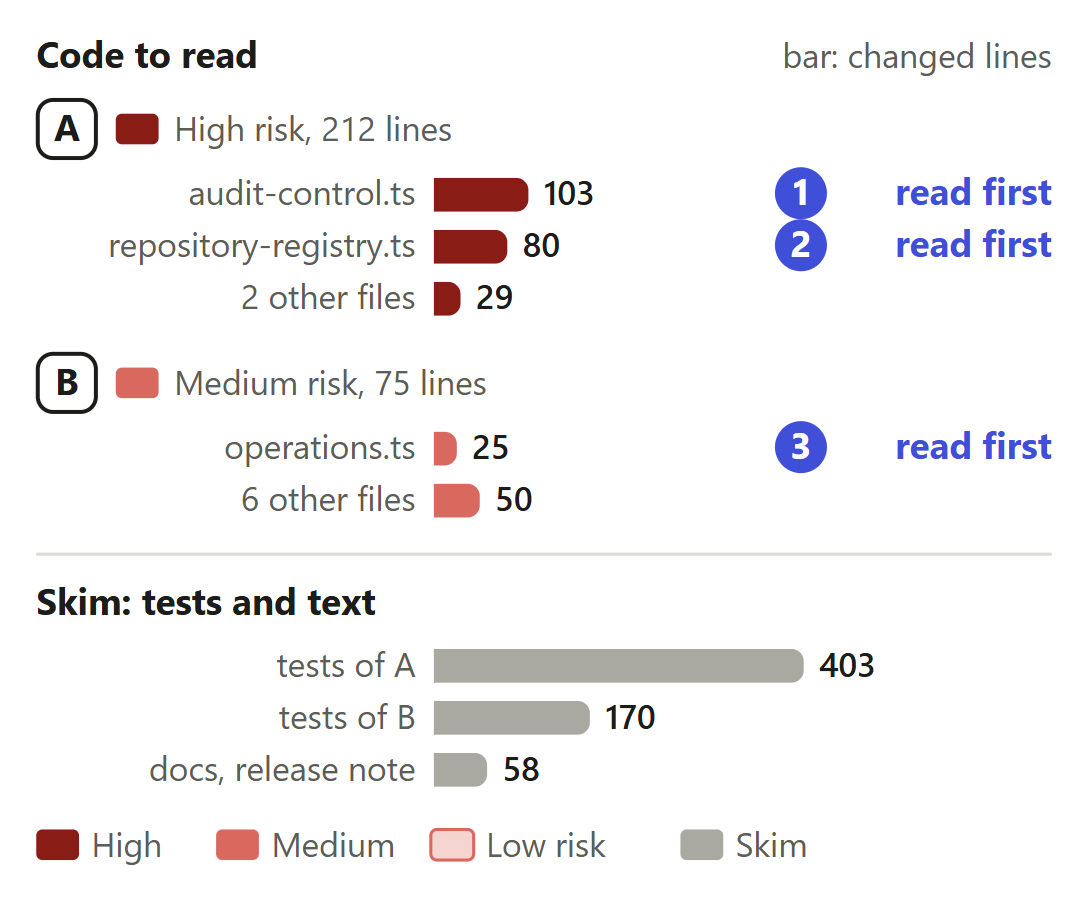
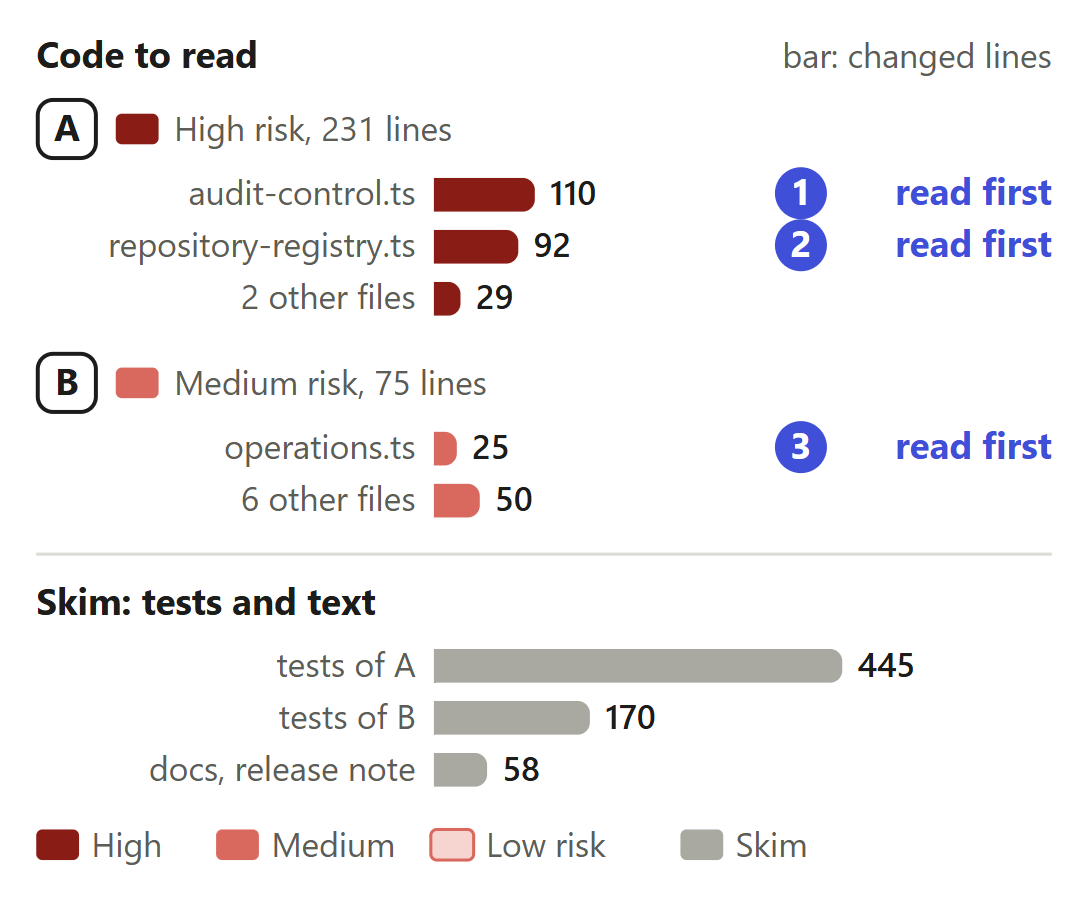
Decision report for #753 (JeanFrancoisGagne/settings-read-earlier-spelling)
settings-read-earlier-spelling/ holds what the pull request's callout links: README.md, the report in GitHub Markdown; report.html, the self-standing page; and 2 image(s).

Changed region(s): [[0.4375, 0.1865, 0.5625, 0.3108], [0.7188, 0.7148, 0.8438, 0.7769], [0.3125, 0.1243, 0.3438, 0.1554]]

diff --git a/settings-read-earlier-spelling/report.html b/settings-read-earlier-spelling/report.html
@@ -319,9 +319,9 @@ td .src { display: block; font-size: 13px; color: var(--muted); margin-top: 3px;
   </div>
   <p class="rec"><b>We recommend:</b> approve it: beside 0.1.4, Log mode and a stop come back in every folder measured, at main&#x27;s cost per hook event in each spelling the daemon resolves; one reading is a decision you can reverse.</p>
   <div class="big">
-    <div><b class="w">918 lines</b><span>in 20 files. 287 ship, 631 are tests and text.</span></div><div><b class="w">Careful review</b><span>It changes what the agent is told: a code owner.</span></div><div><b class="w">Waits on nothing</b><span>The approach was chosen on #666.</span></div><div><b class="w">3 not verified</b><span><a href="#gaps">Part 8</a> lists each.</span></div>
+    <div><b class="w">979 lines</b><span>in 20 files. 306 ship, 673 are tests and text.</span></div><div><b class="w">Careful review</b><span>It changes what the agent is told: a code owner.</span></div><div><b class="w">Waits on nothing</b><span>The approach was chosen on #666.</span></div><div><b class="w">3 not verified</b><span><a href="#gaps">Part 8</a> lists each.</span></div>
   </div>
-  <p class="state">Read from <a href="https://github.com/neralabs/rerail/pull/753">GitHub</a> on 18 November 2026, at head ca49f9699.</p>
+  <p class="state">Read from <a href="https://github.com/neralabs/rerail/pull/753">GitHub</a> on 18 November 2026, at head f9c9957e9.</p>
 </header>
 <section id="intent"><h2>2. Intent, and the gap</h2>
 <figure class="fg flat"><table class="tc it"><colgroup><col style="width:15%"><col style="width:25%"><col style="width:29%"><col style="width:31%"></colgroup><thead><tr><th>Change</th><th>Intended</th><th>Found</th><th>Now</th></tr></thead><tbody><tr><td class="k"><span class="lb">A</span><b>Settings kept on update</b></td><td class="in" data-l="Intended">Records saved under one spelling of a folder keep applying to the folder after an update. <span class="tagx">our reading</span></td><td class="fo" data-l="Found">After 0.1.4, main reads Steer where Log was saved, in 8 of 8 folders under another spelling. <span class="tagx">one reading</span></td><td class="now" data-l="Now"><b>Closes the gap</b> for Log mode and a stop, by reading the earlier key where the stored one has nothing.</td></tr><tr><td class="k"><span class="lb">B</span><b>Nothing more per event</b></td><td class="in" data-l="Intended">A fix for an earlier version&#x27;s records costs nothing more on each hook event. <span class="tagx">our reading</span></td><td class="fo" data-l="Found">The head before this paid 93 file calls per hook event in lower case, where main makes 57. <span class="tagx">one reading</span></td><td class="now" data-l="Now"><b>Closes the gap</b> by asking about the real path, as main does, and handing the spelling apart.</td></tr></tbody></table>
@@ -329,7 +329,7 @@ td .src { display: block; font-size: 13px; color: var(--muted); margin-top: 3px;
 <details class="ev"><summary>Sources at main, and causes</summary><div class="table-wrap"><table class="tc tight"><colgroup><col style="width:16%"><col style="width:42%"><col style="width:42%"></colgroup><thead><tr><th>Change</th><th>Where main states the intent</th><th>The cause, and what was measured</th></tr></thead><tbody><tr><td class="k">A. Settings kept on update</td><td data-l="Where main states the intent"><code>docs/windows.md</code>, Checkout keys: main keys each record through <code>checkoutRealpath</code>, the native realpath on Windows; 0.1.4 keyed audit settings and a folder outside Git through Node&#x27;s JS realpath (<code>audit-control.ts</code> line 82 and <code>checkout-control.ts</code> line 12 at the tag).</td><td data-l="The cause, and what was measured"><code>canonicalWorkspace</code> and <code>physicalPath</code> changed from the JS realpath, which keeps the caller&#x27;s letter case, drive letter and 8.3 name, to the native one, which gives the disk&#x27;s spelling. Nothing moved the rows 0.1.4 saved, and every read asks only the new key.</td></tr><tr><td class="k">B. Nothing more per event</td><td data-l="Where main states the intent">The issue&#x27;s chosen fix on #666: small, no storage change, nothing extra per event.</td><td data-l="The cause, and what was measured">The hook sent the folder as spelt in place of its real path, so the daemon resolved that spelling on each event.</td></tr></tbody></table></div></details>
 </section><section id="look"><h2>3. Where to look</h2>
 <p class="sub">Minutes are our estimate.</p>
-<div class="duo"><figure class="fg"><svg viewBox="0 0 340 279" role="img" aria-label="The changed files as bars sized by changed lines, grouped by change and coloured by risk. Code to read: A, Earlier key read at lookup, high risk, 212 lines; B, The spelling handed apart, medium risk, 75 lines. Read first: audit-control.ts, repository-registry.ts, operations.ts. To skim: 573 lines of tests and 58 lines of what is read again, and resetting the rest." class="dg map"><text x="4" y="14" class="t b">Code to read</text><text x="336" y="14" text-anchor="end" class="t s">bar: changed lines</text><rect x="4.5" y="24.5" width="19" height="19" rx="5" class="lt"/><text x="14" y="38" text-anchor="middle" class="t b">A</text><rect x="30" y="29" width="14" height="10" rx="2" class="rk high"/><text x="49" y="38" class="t s">High risk, 212 lines</text><text x="128" y="59" text-anchor="end" class="t s">audit-control.ts</text><g><title>audit-control.ts: 103 changed lines, high risk</title><path d="M134 50h26.9a4 4 0 0 1 4 4v3a4 4 0 0 1 -4 4h-26.9z" class="rk high"/></g><text x="169.9" y="59" class="t n">103</text><text x="336" y="59" text-anchor="end" class="t b acc">read first</text><circle cx="254" cy="55" r="8.5" class="nc"/><text x="254" y="59" text-anchor="middle" class="t b inv">1</text><text x="128" y="76" text-anchor="end" class="t s">repository-registry.ts</text><g><title>repository-registry.ts: 80 changed lines, high risk</title><path d="M134 67h20a4 4 0 0 1 4 4v3a4 4 0 0 1 -4 4h-20z" class="rk high"/></g><text x="163" y="76" class="t n">80</text><text x="336" y="76" text-anchor="end" class="t b acc">read first</text><circle cx="254" cy="72" r="8.5" class="nc"/><text x="254" y="76" text-anchor="middle" class="t b inv">2</text><text x="128" y="93" text-anchor="end" class="t s">2 other files</text><g><title>2 other files: 29 changed lines, high risk</title><path d="M134 84h4.7a4 4 0 0 1 4 4v3a4 4 0 0 1 -4 4h-4.7z" class="rk high"/></g><text x="147.7" y="93" class="t n">29</text><rect x="4.5" y="107.5" width="19" height="19" rx="5" class="lt"/><text x="14" y="121" text-anchor="middle" class="t b">B</text><rect x="30" y="112" width="14" height="10" rx="2" class="rk med"/><text x="49" y="121" class="t s">Medium risk, 75 lines</text><text x="128" y="142" text-anchor="end" class="t s">operations.ts</text><g><title>operations.ts: 25 changed lines, medium risk</title><path d="M134 133h3.5a4 4 0 0 1 4 4v3a4 4 0 0 1 -4 4h-3.5z" class="rk med"/></g><text x="146.5" y="142" class="t n">25</text><text x="336" y="142" text-anchor="end" class="t b acc">read first</text><circle cx="254" cy="138" r="8.5" class="nc"/><text x="254" y="142" text-anchor="middle" class="t b inv">3</text><text x="128" y="159" text-anchor="end" class="t s">6 other files</text><g><title>6 other files: 50 changed lines, medium risk</title><path d="M134 150h11a4 4 0 0 1 4 4v3a4 4 0 0 1 -4 4h-11z" class="rk med"/></g><text x="154" y="159" class="t n">50</text><line x1="4" y1="173" x2="336" y2="173" class="ar thin"/><text x="4" y="193" class="t b">Skim: tests and text</text><text x="128" y="213" text-anchor="end" class="t s">tests of A</text><g><title>Tests of change A: 403 changed lines, skim</title><path d="M134 204h116.9a4 4 0 0 1 4 4v3a4 4 0 0 1 -4 4h-116.9z" class="rk skim"/></g><text x="259.9" y="213" class="t n">403</text><text x="128" y="230" text-anchor="end" class="t s">tests of B</text><g><title>Tests of change B: 170 changed lines, skim</title><path d="M134 221h47a4 4 0 0 1 4 4v3a4 4 0 0 1 -4 4h-47z" class="rk skim"/></g><text x="190" y="230" class="t n">170</text><text x="128" y="247" text-anchor="end" class="t s">docs, release note</text><g><title>What is read again, and resetting the rest: 58 lines</title><path d="M134 238h13.4a4 4 0 0 1 4 4v3a4 4 0 0 1 -4 4h-13.4z" class="rk skim"/></g><text x="156.4" y="247" class="t n">58</text><rect x="4" y="263" width="14" height="10" rx="2" class="rk high"/><text x="22" y="272" class="t s">High</text><rect x="62.8" y="263" width="14" height="10" rx="2" class="rk med"/><text x="80.8" y="272" class="t s">Medium</text><rect x="133" y="263" width="14" height="10" rx="2" class="rk low"/><text x="151" y="272" class="t s">Low risk</text><rect x="214.6" y="263" width="14" height="10" rx="2" class="rk skim"/><text x="232.6" y="272" class="t s">Skim</text></svg>
+<div class="duo"><figure class="fg"><svg viewBox="0 0 340 279" role="img" aria-label="The changed files as bars sized by changed lines, grouped by change and coloured by risk. Code to read: A, Earlier key read at lookup, high risk, 231 lines; B, The spelling handed apart, medium risk, 75 lines. Read first: audit-control.ts, repository-registry.ts, operations.ts. To skim: 615 lines of tests and 58 lines of what is read again, and resetting the rest." class="dg map"><text x="4" y="14" class="t b">Code to read</text><text x="336" y="14" text-anchor="end" class="t s">bar: changed lines</text><rect x="4.5" y="24.5" width="19" height="19" rx="5" class="lt"/><text x="14" y="38" text-anchor="middle" class="t b">A</text><rect x="30" y="29" width="14" height="10" rx="2" class="rk high"/><text x="49" y="38" class="t s">High risk, 231 lines</text><text x="128" y="59" text-anchor="end" class="t s">audit-control.ts</text><g><title>audit-control.ts: 110 changed lines, high risk</title><path d="M134 50h29a4 4 0 0 1 4 4v3a4 4 0 0 1 -4 4h-29z" class="rk high"/></g><text x="172" y="59" class="t n">110</text><text x="336" y="59" text-anchor="end" class="t b acc">read first</text><circle cx="254" cy="55" r="8.5" class="nc"/><text x="254" y="59" text-anchor="middle" class="t b inv">1</text><text x="128" y="76" text-anchor="end" class="t s">repository-registry.ts</text><g><title>repository-registry.ts: 92 changed lines, high risk</title><path d="M134 67h23.6a4 4 0 0 1 4 4v3a4 4 0 0 1 -4 4h-23.6z" class="rk high"/></g><text x="166.6" y="76" class="t n">92</text><text x="336" y="76" text-anchor="end" class="t b acc">read first</text><circle cx="254" cy="72" r="8.5" class="nc"/><text x="254" y="76" text-anchor="middle" class="t b inv">2</text><text x="128" y="93" text-anchor="end" class="t s">2 other files</text><g><title>2 other files: 29 changed lines, high risk</title><path d="M134 84h4.7a4 4 0 0 1 4 4v3a4 4 0 0 1 -4 4h-4.7z" class="rk high"/></g><text x="147.7" y="93" class="t n">29</text><rect x="4.5" y="107.5" width="19" height="19" rx="5" class="lt"/><text x="14" y="121" text-anchor="middle" class="t b">B</text><rect x="30" y="112" width="14" height="10" rx="2" class="rk med"/><text x="49" y="121" class="t s">Medium risk, 75 lines</text><text x="128" y="142" text-anchor="end" class="t s">operations.ts</text><g><title>operations.ts: 25 changed lines, medium risk</title><path d="M134 133h3.5a4 4 0 0 1 4 4v3a4 4 0 0 1 -4 4h-3.5z" class="rk med"/></g><text x="146.5" y="142" class="t n">25</text><text x="336" y="142" text-anchor="end" class="t b acc">read first</text><circle cx="254" cy="138" r="8.5" class="nc"/><text x="254" y="142" text-anchor="middle" class="t b inv">3</text><text x="128" y="159" text-anchor="end" class="t s">6 other files</text><g><title>6 other files: 50 changed lines, medium risk</title><path d="M134 150h11a4 4 0 0 1 4 4v3a4 4 0 0 1 -4 4h-11z" class="rk med"/></g><text x="154" y="159" class="t n">50</text><line x1="4" y1="173" x2="336" y2="173" class="ar thin"/><text x="4" y="193" class="t b">Skim: tests and text</text><text x="128" y="213" text-anchor="end" class="t s">tests of A</text><g><title>Tests of change A: 445 changed lines, skim</title><path d="M134 204h129.5a4 4 0 0 1 4 4v3a4 4 0 0 1 -4 4h-129.5z" class="rk skim"/></g><text x="272.5" y="213" class="t n">445</text><text x="128" y="230" text-anchor="end" class="t s">tests of B</text><g><title>Tests of change B: 170 changed lines, skim</title><path d="M134 221h47a4 4 0 0 1 4 4v3a4 4 0 0 1 -4 4h-47z" class="rk skim"/></g><text x="190" y="230" class="t n">170</text><text x="128" y="247" text-anchor="end" class="t s">docs, release note</text><g><title>What is read again, and resetting the rest: 58 lines</title><path d="M134 238h13.4a4 4 0 0 1 4 4v3a4 4 0 0 1 -4 4h-13.4z" class="rk skim"/></g><text x="156.4" y="247" class="t n">58</text><rect x="4" y="263" width="14" height="10" rx="2" class="rk high"/><text x="22" y="272" class="t s">High</text><rect x="62.8" y="263" width="14" height="10" rx="2" class="rk med"/><text x="80.8" y="272" class="t s">Medium</text><rect x="133" y="263" width="14" height="10" rx="2" class="rk low"/><text x="151" y="272" class="t s">Low risk</text><rect x="214.6" y="263" width="14" height="10" rx="2" class="rk skim"/><text x="232.6" y="272" class="t s">Skim</text></svg>
 <figcaption>Most lines are in the settings read and the checkout lookup.</figcaption></figure>
 <div><ol class="steps"><li class="first"><div><span class="rf">Read first</span><b><code>audit-control.ts</code>: <code>#settingsRow</code>, <code>#savedHere</code>, <code>#earlierKey</code></b><span class="min">12 min</span><span class="x">Can a stored row lose to the earlier one, or another folder&#x27;s earlier row count outside Git?</span></div></li><li class="first"><div><span class="rf">Read first</span><b><code>repository-registry.ts</code>: <code>ownStarted</code>, <code>earlierKeyOf</code>, <code>spelledCheckout</code></b><span class="min">8 min</span><span class="x">Does another repository&#x27;s stop, or another folder&#x27;s spelling, ever decide?</span></div></li><li class="first"><div><span class="rf">Read first</span><b><code>operations.ts</code>: <code>readingSpelling</code> and the <code>spelling</code> value</b><span class="min">6 min</span><span class="x">Does the spelling reach only the start state of the folder asked about?</span></div></li><li><div><b><code>session-presentation.ts</code>, <code>repository-start.ts</code>, <code>operation.ts</code>, <code>stores.ts</code>, <code>daemon-control.ts</code>, <code>daemon.ts</code>, <code>checkout-control.ts</code>, <code>repository-model.ts</code>: the rest</b><span class="min">5 min</span></div></li></ol>
 <div class="skim"><i></i><div><span class="rf">Then skim</span><b>Tests and text</b><span class="min">6 min</span><span class="x">The earlier key&#x27;s tests run on Windows only and build 0.1.4&#x27;s key with Node&#x27;s JS realpath; the hook&#x27;s request is checked on every platform.</span></div></div>
@@ -359,7 +359,7 @@ td .src { display: block; font-size: 13px; color: var(--muted); margin-top: 3px;
 <div class="dblock"><h3>Should the earlier rows be read where they are, or copied to the stored key?</h3>
 <p><b>We chose</b> reading them at lookup, as the maintainers chose on #666: small, no storage change, and deleted once 0.1.4 is gone.</p>
 <p><b>Would change our mind:</b> Installs still on 0.1.4 after the next releases, so that the lookup could never be deleted.</p>
-<details class="ev"><summary>Options and evidence</summary><div class="table-wrap"><table class="tc tight"><colgroup><col style="width:28%"><col style="width:22%"><col style="width:22%"><col style="width:28%"></colgroup><thead><tr><th>Option</th><th>What a user gets</th><th>Cost</th><th>What it breaks</th></tr></thead><tbody><tr><td class="k">Read the earlier key where the stored one has nothing <span class='tag new'>chosen</span></td><td data-l="What a user gets">Log mode and a stop come back, and a start and a stop 0.1.4 makes later are read too.</td><td data-l="Cost">249 source lines in 11 files, 149 of them code; no storage change; per hook event main&#x27;s file calls and statements in each spelling the daemon resolves.</td><td data-l="What it breaks">A status line hidden in a folder opened in another letter case, and a checkout&#x27;s rule setting outside Git through a mapped or subst letter or an 8.3 name, stay lost, as at main.</td></tr><tr><td class="k">Copy the rows to the stored key, with a table of spellings</td><td data-l="What a user gets">Those two settings come back as well.</td><td data-l="Cost">802 source lines in 16 files, a migration step and a new table under the storage folder.</td><td data-l="What it breaks">What 0.1.4 writes later is not read: after 0.1.4 changed the scope, the copy kept the old one.</td></tr><tr><td class="k">Move the rows to the stored key, with no table</td><td data-l="What a user gets">The same as the copy.</td><td data-l="Cost">A migration step.</td><td data-l="What it breaks">An earlier version sharing the database loses what it saved.</td></tr></tbody></table></div><p><b>Evidence.</b> Measured on Windows 11 with 0.1.4 from npm saving each setting, then main and this head each reading a copy through their own daemon, hooks and status line; the copy&#x27;s figures are from the measured options posted on #666.</p></details></div>
+<details class="ev"><summary>Options and evidence</summary><div class="table-wrap"><table class="tc tight"><colgroup><col style="width:28%"><col style="width:22%"><col style="width:22%"><col style="width:28%"></colgroup><thead><tr><th>Option</th><th>What a user gets</th><th>Cost</th><th>What it breaks</th></tr></thead><tbody><tr><td class="k">Read the earlier key where the stored one has nothing <span class='tag new'>chosen</span></td><td data-l="What a user gets">Log mode and a stop come back, and a start and a stop 0.1.4 makes later are read too.</td><td data-l="Cost">266 source lines in 11 files, 150 of them code; no storage change; per hook event main&#x27;s file calls and statements in each spelling the daemon resolves.</td><td data-l="What it breaks">A status line hidden in a folder opened in another letter case, and a checkout&#x27;s rule setting outside Git through a mapped or subst letter or an 8.3 name, stay lost, as at main.</td></tr><tr><td class="k">Copy the rows to the stored key, with a table of spellings</td><td data-l="What a user gets">Those two settings come back as well.</td><td data-l="Cost">802 source lines in 16 files, a migration step and a new table under the storage folder.</td><td data-l="What it breaks">What 0.1.4 writes later is not read: after 0.1.4 changed the scope, the copy kept the old one.</td></tr><tr><td class="k">Move the rows to the stored key, with no table</td><td data-l="What a user gets">The same as the copy.</td><td data-l="Cost">A migration step.</td><td data-l="What it breaks">An earlier version sharing the database loses what it saved.</td></tr></tbody></table></div><p><b>Evidence.</b> Measured on Windows 11 with 0.1.4 from npm saving each setting, then main and this head each reading a copy through their own daemon, hooks and status line; the copy&#x27;s figures are from the measured options posted on #666.</p></details></div>
 <div class="dblock"><h3>When does a row saved under the earlier spelling belong to this folder?</h3>
 <p><b>We chose</b> outside Git, only for the folder&#x27;s own recorded repository; in a Git checkout always, as 0.1.4 read it.</p>
 <p><b>Would change our mind:</b> A record that ties a Git checkout&#x27;s row to it, or a report of a letter re-pointed between two Git checkouts.</p>
@@ -389,7 +389,7 @@ td .src { display: block; font-size: 13px; color: var(--muted); margin-top: 3px;
 </section><section id="evidence"><h2>10. Evidence</h2>
 <p>The description holds the table under &quot;How you tested it&quot;, the fails-first runs, the mutants, and the statements and file calls per check.</p>
 <details class="ev"><summary>Runs at this head</summary><div class="table-wrap"><table class="tc tight"><colgroup><col style="width:16%"><col style="width:40%"><col style="width:44%"></colgroup><thead><tr><th>Where</th><th>What ran</th><th>Result</th></tr></thead><tbody><tr><td class="k">Windows 11, 0.1.4</td><td data-l="What ran">Saved Log mode, a stop, a hidden status line and a rule off in 18 folders, and Log through a subst letter later re-pointed; main and this head read a copy each, and hooks and daemons of different versions met</td><td data-l="Result">Log: Steer at main in 8 of 8, Log here. Stop outside Git through a letter or 8.3 name: main runs, this head stops (3 of 3). Re-pointed: outside Git Steer at both; in Git Log here, as decided. An older daemon answers this head&#x27;s hooks as main&#x27;s.</td></tr><tr><td class="k">Windows 11</td><td data-l="What ran">File calls and statements per hook event, with what each build&#x27;s hook sends</td><td data-l="Result">Outside Git main 57, the head before 93 in lower case and 65 through subst, here 57 in every spelling the daemon resolves, 61 to 64 in one it cannot; the same statements.</td></tr><tr><td class="k">Windows 11</td><td data-l="What ran">77 test files; the new and changed cases 20 times; 29 mutants</td><td data-l="Result">2,163 passed; 2 timing tests failed beside other runs and passed alone at main (5 of 5) and here (4 of 4). The 20 runs: 0 failed. Every mutant fails a case.</td></tr><tr><td class="k">Linux x64</td><td data-l="What ran">The same 77 files, CI&#x27;s integration job, the changed cases 20 times</td><td data-l="Result">2,138 passed; 1 race case failed, as in main&#x27;s run there. Integration: 90 passed, 0 failed. The changed cases: 20 of 20 runs passed.</td></tr><tr><td class="k">Linux x64</td><td data-l="What ran">The rules scan against main</td><td data-l="Result">No new finding against main at e8a6b0b5a, with the published 0.1.1 and with Rerail built from main; highest complexity 5.</td></tr></tbody></table></div></details>
-<details class="ev"><summary>Sources</summary><p>The branch at ca49f9699, whose source is 8fb57720c&#x27;s, against main at e8a6b0b5a; the tags v0.1.3 and v0.1.4 and 0.1.5&#x27;s release commit for what each version keys.</p></details>
+<details class="ev"><summary>Sources</summary><p>The branch at f9c9957e9 against main at e8a6b0b5a; the tags v0.1.3 and v0.1.4 and 0.1.5&#x27;s release commit for what each version keys.</p></details>
 </section>
 <footer><p>A figure we could not source is left out.</p></footer>
 </main>

diff --git a/settings-read-earlier-spelling/README.md b/settings-read-earlier-spelling/README.md
@@ -1,6 +1,6 @@
 # Settings: an earlier version's Log mode and stop read again on Windows
 
-For [pull request #753](https://github.com/neralabs/rerail/pull/753), head ca49f9699. [report.html](report.html) is the same report as one page: download it and open it.
+For [pull request #753](https://github.com/neralabs/rerail/pull/753), head f9c9957e9. [report.html](report.html) is the same report as one page: download it and open it.
 
 ## 1. The decision
 
@@ -10,7 +10,7 @@ For [pull request #753](https://github.com/neralabs/rerail/pull/753), head ca49f
 
 | Size | Risk and review | Waits on | Not verified |
 |---|---|---|---|
-| 918 lines in 20 files: 287 ship, 631 are tests and text | Careful. It changes what the agent is told: a code owner. | Nothing. The approach was chosen on #666. | 3 |
+| 979 lines in 20 files: 306 ship, 673 are tests and text | Careful. It changes what the agent is told: a code owner. | Nothing. The approach was chosen on #666. | 3 |
 
 ## 2. Intent, and the gap
 
@@ -32,7 +32,7 @@ Found on 13 November 2026 on a Windows 11 machine, reading a database 0.1.4 wrot
 
 ## 3. Where to look
 
-<img src="map.png" width="544" alt="The changed files as bars sized by changed lines, grouped by change and coloured by risk. Code to read: A, Earlier key read at lookup, high risk, 212 lines; B, The spelling handed apart, medium risk, 75 lines. Read first: audit-control.ts, repository-registry.ts, operations.ts. To skim: 573 lines of tests and 58 lines of what is read again, and resetting the rest.">
+<img src="map.png" width="544" alt="The changed files as bars sized by changed lines, grouped by change and coloured by risk. Code to read: A, Earlier key read at lookup, high risk, 231 lines; B, The spelling handed apart, medium risk, 75 lines. Read first: audit-control.ts, repository-registry.ts, operations.ts. To skim: 615 lines of tests and 58 lines of what is read again, and resetting the rest.">
 
 1. **Read first**, 12 min: `audit-control.ts`: `#settingsRow`, `#savedHere`, `#earlierKey`. Can a stored row lose to the earlier one, or another folder's earlier row count outside Git?
 2. **Read first**, 8 min: `repository-registry.ts`: `ownStarted`, `earlierKeyOf`, `spelledCheckout`. Does another repository's stop, or another folder's spelling, ever decide?
@@ -89,7 +89,7 @@ Start at change A: it changes what the agent is told. CI has not run.
 
 | Option | What a user gets | Cost | What it breaks |
 |---|---|---|---|
-| Read the earlier key where the stored one has nothing **(chosen)** | Log mode and a stop come back, and a start and a stop 0.1.4 makes later are read too. | 249 source lines in 11 files, 149 of them code; no storage change; per hook event main's file calls and statements in each spelling the daemon resolves. | A status line hidden in a folder opened in another letter case, and a checkout's rule setting outside Git through a mapped or subst letter or an 8.3 name, stay lost, as at main. |
+| Read the earlier key where the stored one has nothing **(chosen)** | Log mode and a stop come back, and a start and a stop 0.1.4 makes later are read too. | 266 source lines in 11 files, 150 of them code; no storage change; per hook event main's file calls and statements in each spelling the daemon resolves. | A status line hidden in a folder opened in another letter case, and a checkout's rule setting outside Git through a mapped or subst letter or an 8.3 name, stay lost, as at main. |
 | Copy the rows to the stored key, with a table of spellings | Those two settings come back as well. | 802 source lines in 16 files, a migration step and a new table under the storage folder. | What 0.1.4 writes later is not read: after 0.1.4 changed the scope, the copy kept the old one. |
 | Move the rows to the stored key, with no table | The same as the copy. | A migration step. | An earlier version sharing the database loses what it saved. |
 
@@ -152,6 +152,6 @@ The description holds the table under "How you tested it", the fails-first runs,
 | Linux x64 | The same 77 files, CI's integration job, the changed cases 20 times | 2,138 passed; 1 race case failed, as in main's run there. Integration: 90 passed, 0 failed. The changed cases: 20 of 20 runs passed. |
 | Linux x64 | The rules scan against main | No new finding against main at e8a6b0b5a, with the published 0.1.1 and with Rerail built from main; highest complexity 5. |
 
-**Sources.** The branch at ca49f9699, whose source is 8fb57720c's, against main at e8a6b0b5a; the tags v0.1.3 and v0.1.4 and 0.1.5's release commit for what each version keys.
+**Sources.** The branch at f9c9957e9 against main at e8a6b0b5a; the tags v0.1.3 and v0.1.4 and 0.1.5's release commit for what each version keys.
 
 </details>
